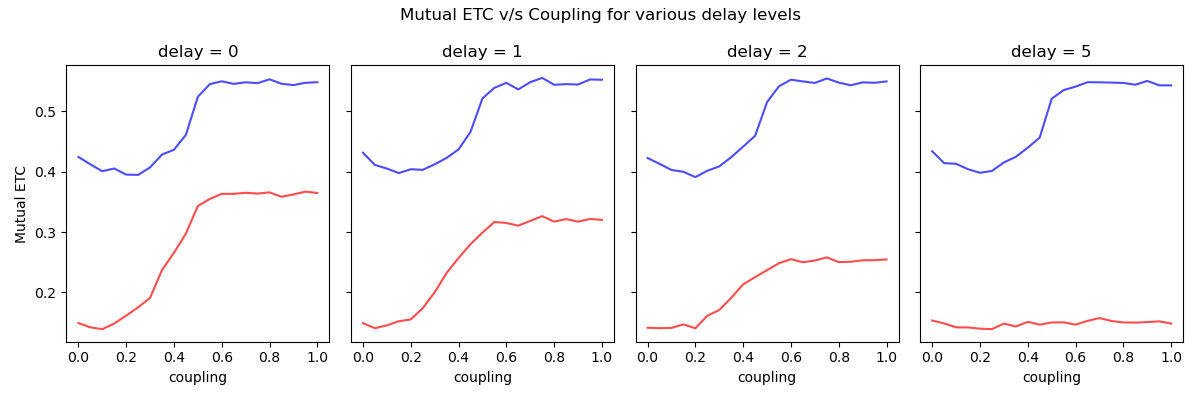
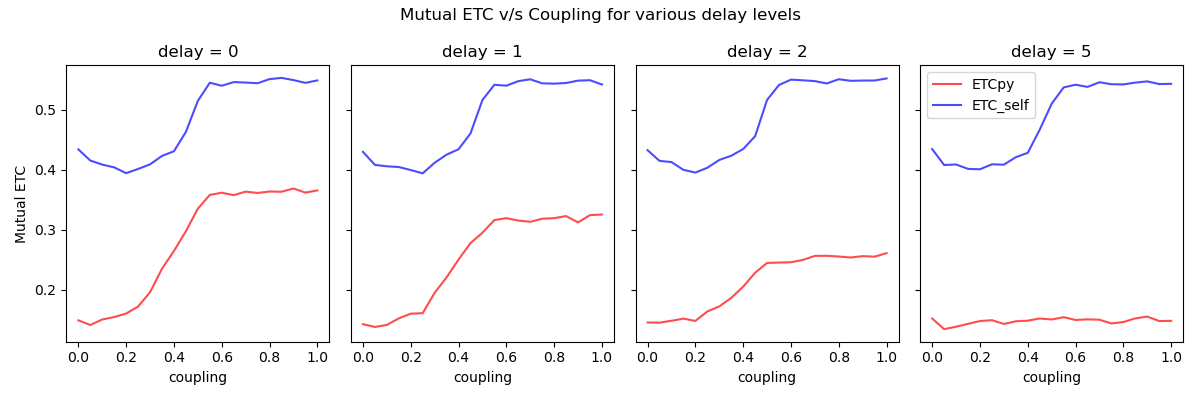
new plot

diff --git a/METCAnalysis/main.py b/METCAnalysis/main.py
@@ -36,8 +36,8 @@ if __name__ == "__main__":
     p = 0.4999
     epsilons  = np.linspace(0,1,21)
     trials = 50
-    n = 100
-    bins=10
+    n = 1000
+    bins=2
     
     delay = [0,1,2,5]
 
@@ -57,7 +57,7 @@ if __name__ == "__main__":
             metc_self_vals = []
             for _ in range(trials):
                 X, Y = simulate(p, eps, n, delay=d)
-                metc_vals.append(metc(X,Y, bins=bins))
+                metc_vals.append(metc(X,Y,bins=bins))
                 metc_self_vals.append(metc_self(X,Y,bins=bins))
             metcs[idx2] = np.mean(metc_vals)
             metc_selfs[idx2] = np.mean(metc_self_vals)
